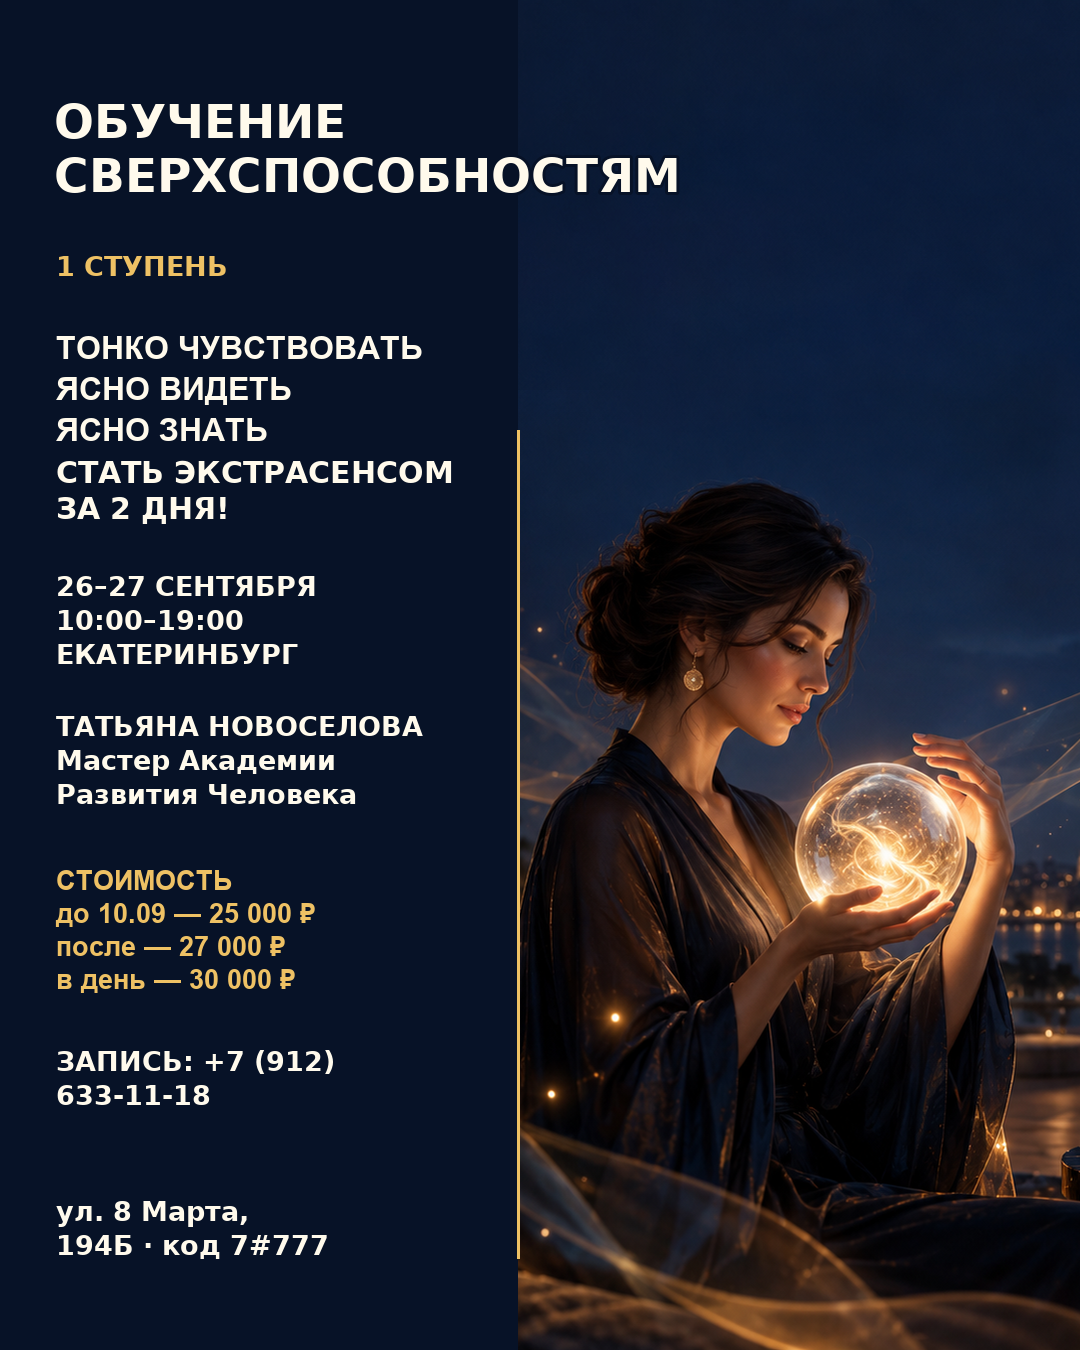
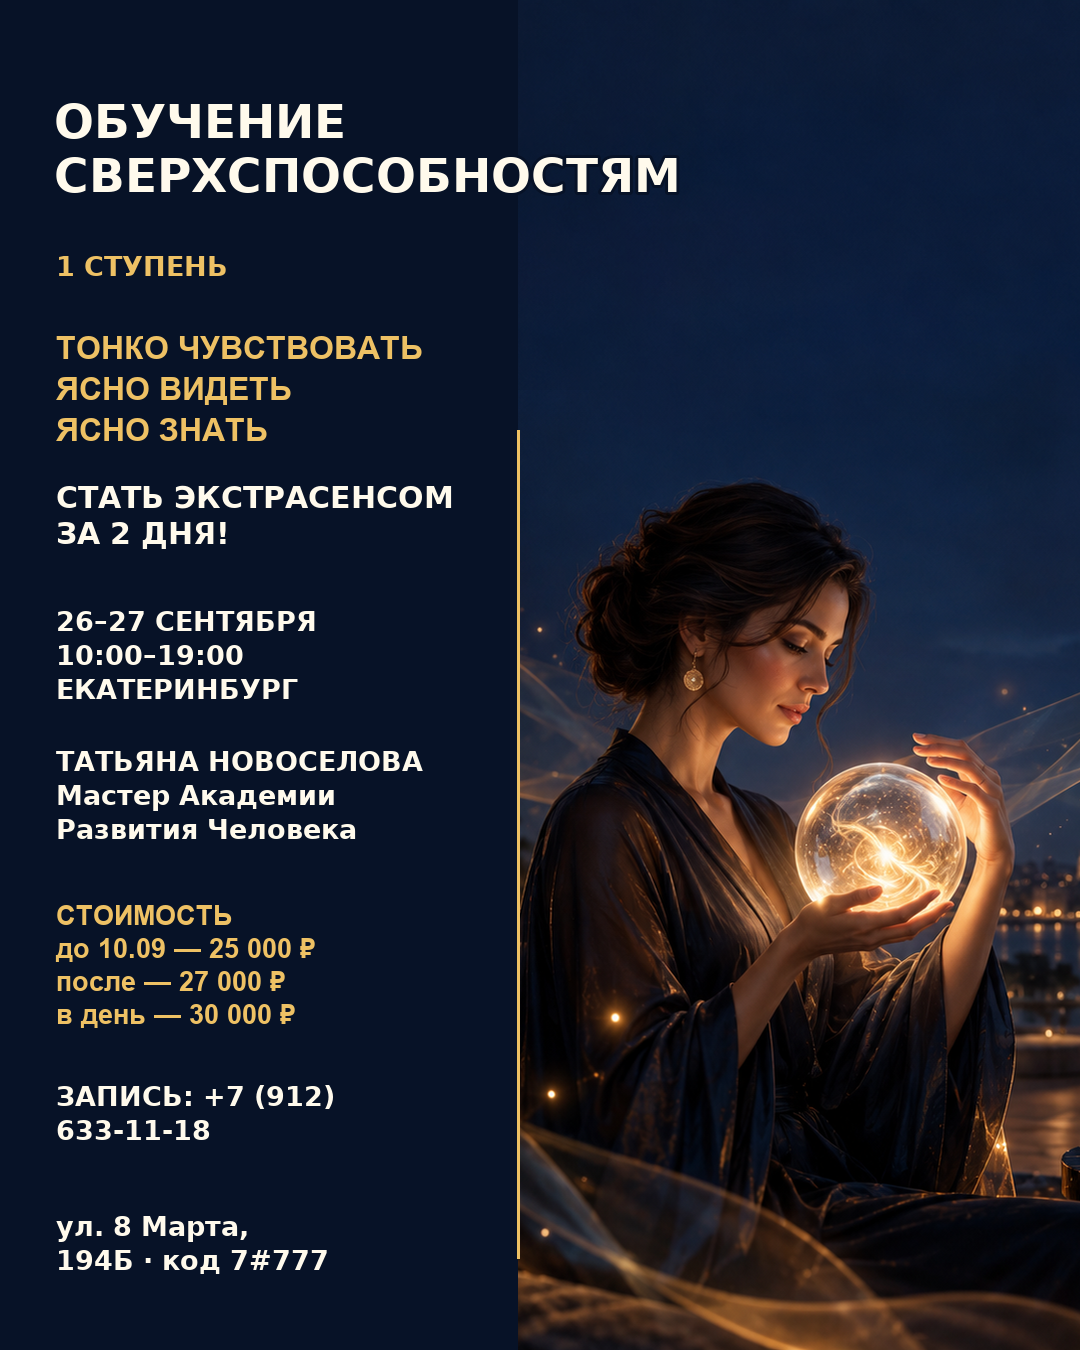
Refine diptych offer emphasis

Changed region(s): [[0.0306, 0.2489, 0.4278, 0.84], [0.0306, 0.8711, 0.3056, 0.9644]]

diff --git a/scripts/build_layout_comparison_posters.py b/scripts/build_layout_comparison_posters.py
@@ -214,13 +214,13 @@ def diptych_headline_bleed_offer_readable() -> None:
     draw.line((split, 430, split, 1258), fill=amber, width=3)
     text(draw, (54, 94), TITLE, 47, cream, stroke=navy, width=3)
     text_in_column(draw, (56, 250), "1 СТУПЕНЬ", 27, amber, split - 18, stroke=navy, width=2)
-    text_in_column(draw, (56, 330), "ТОНКО ЧУВСТВОВАТЬ\nЯСНО ВИДЕТЬ\nЯСНО ЗНАТЬ", 32, cream, split - 18, stroke=navy, width=2, spacing=8, typeface=CURRENCY_BOLD)
-    text_in_column(draw, (56, 455), OFFER, 30, cream, split - 18, stroke=navy, width=2)
-    text_in_column(draw, (56, 570), "26–27 СЕНТЯБРЯ\n10:00–19:00\nЕКАТЕРИНБУРГ", 27, cream, split - 18, stroke=navy, width=2)
-    text_in_column(draw, (56, 710), "ТАТЬЯНА НОВОСЕЛОВА\nМастер Академии\nРазвития Человека", 27, cream, split - 18, stroke=navy, width=2)
-    text_in_column(draw, (56, 865), "СТОИМОСТЬ\nдо 10.09 — 25 000 ₽\nпосле — 27 000 ₽\nв день — 30 000 ₽", 27, amber, split - 18, stroke=navy, width=2, typeface=CURRENCY_BOLD)
-    text_in_column(draw, (56, 1045), "ЗАПИСЬ: +7 (912)\n633-11-18", 27, cream, split - 18, stroke=navy, width=2)
-    text_in_column(draw, (56, 1195), "ул. 8 Марта,\n194Б · код 7#777", 27, cream, split - 18, stroke=navy, width=2)
+    text_in_column(draw, (56, 330), "ТОНКО ЧУВСТВОВАТЬ\nЯСНО ВИДЕТЬ\nЯСНО ЗНАТЬ", 32, amber, split - 18, stroke=navy, width=2, spacing=8, typeface=CURRENCY_BOLD)
+    text_in_column(draw, (56, 480), OFFER, 30, cream, split - 18, stroke=navy, width=2)
+    text_in_column(draw, (56, 605), "26–27 СЕНТЯБРЯ\n10:00–19:00\nЕКАТЕРИНБУРГ", 27, cream, split - 18, stroke=navy, width=2)
+    text_in_column(draw, (56, 745), "ТАТЬЯНА НОВОСЕЛОВА\nМастер Академии\nРазвития Человека", 27, cream, split - 18, stroke=navy, width=2)
+    text_in_column(draw, (56, 900), "СТОИМОСТЬ\nдо 10.09 — 25 000 ₽\nпосле — 27 000 ₽\nв день — 30 000 ₽", 27, amber, split - 18, stroke=navy, width=2, typeface=CURRENCY_BOLD)
+    text_in_column(draw, (56, 1080), "ЗАПИСЬ: +7 (912)\n633-11-18", 27, cream, split - 18, stroke=navy, width=2)
+    text_in_column(draw, (56, 1210), "ул. 8 Марта,\n194Б · код 7#777", 27, cream, split - 18, stroke=navy, width=2)
     save(Image.alpha_composite(image, layer), "24-layout-diptych-headline-bleed-offer-readable.png")
 
 
